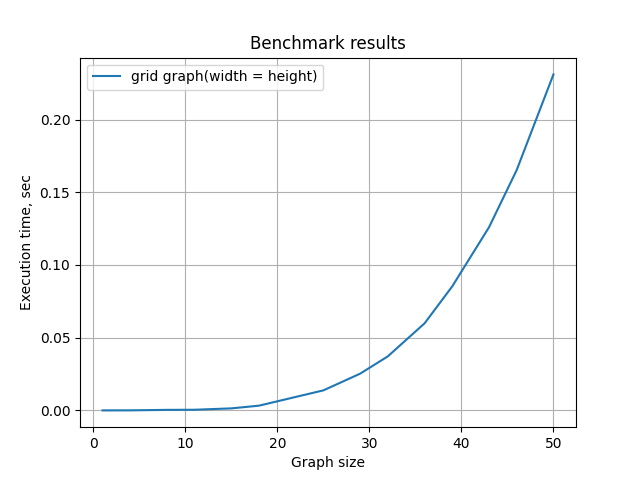
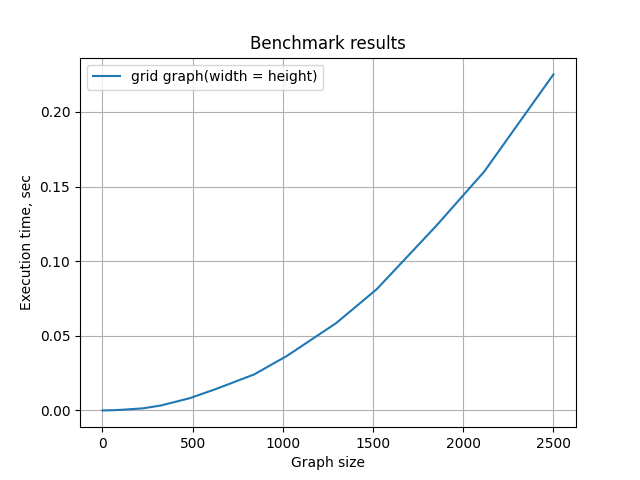
minor fix

diff --git a/plots.py b/plots.py
@@ -75,7 +75,7 @@ def plot_grid_graph():
             end = time.time()
             results.append(end - begin)
 
-    draw_results(sizes, results, "grid graph(width = height)")
+    draw_results(sizes ** 2, results, "grid graph(width = height)")
 
 
 def plot_line_graph():
